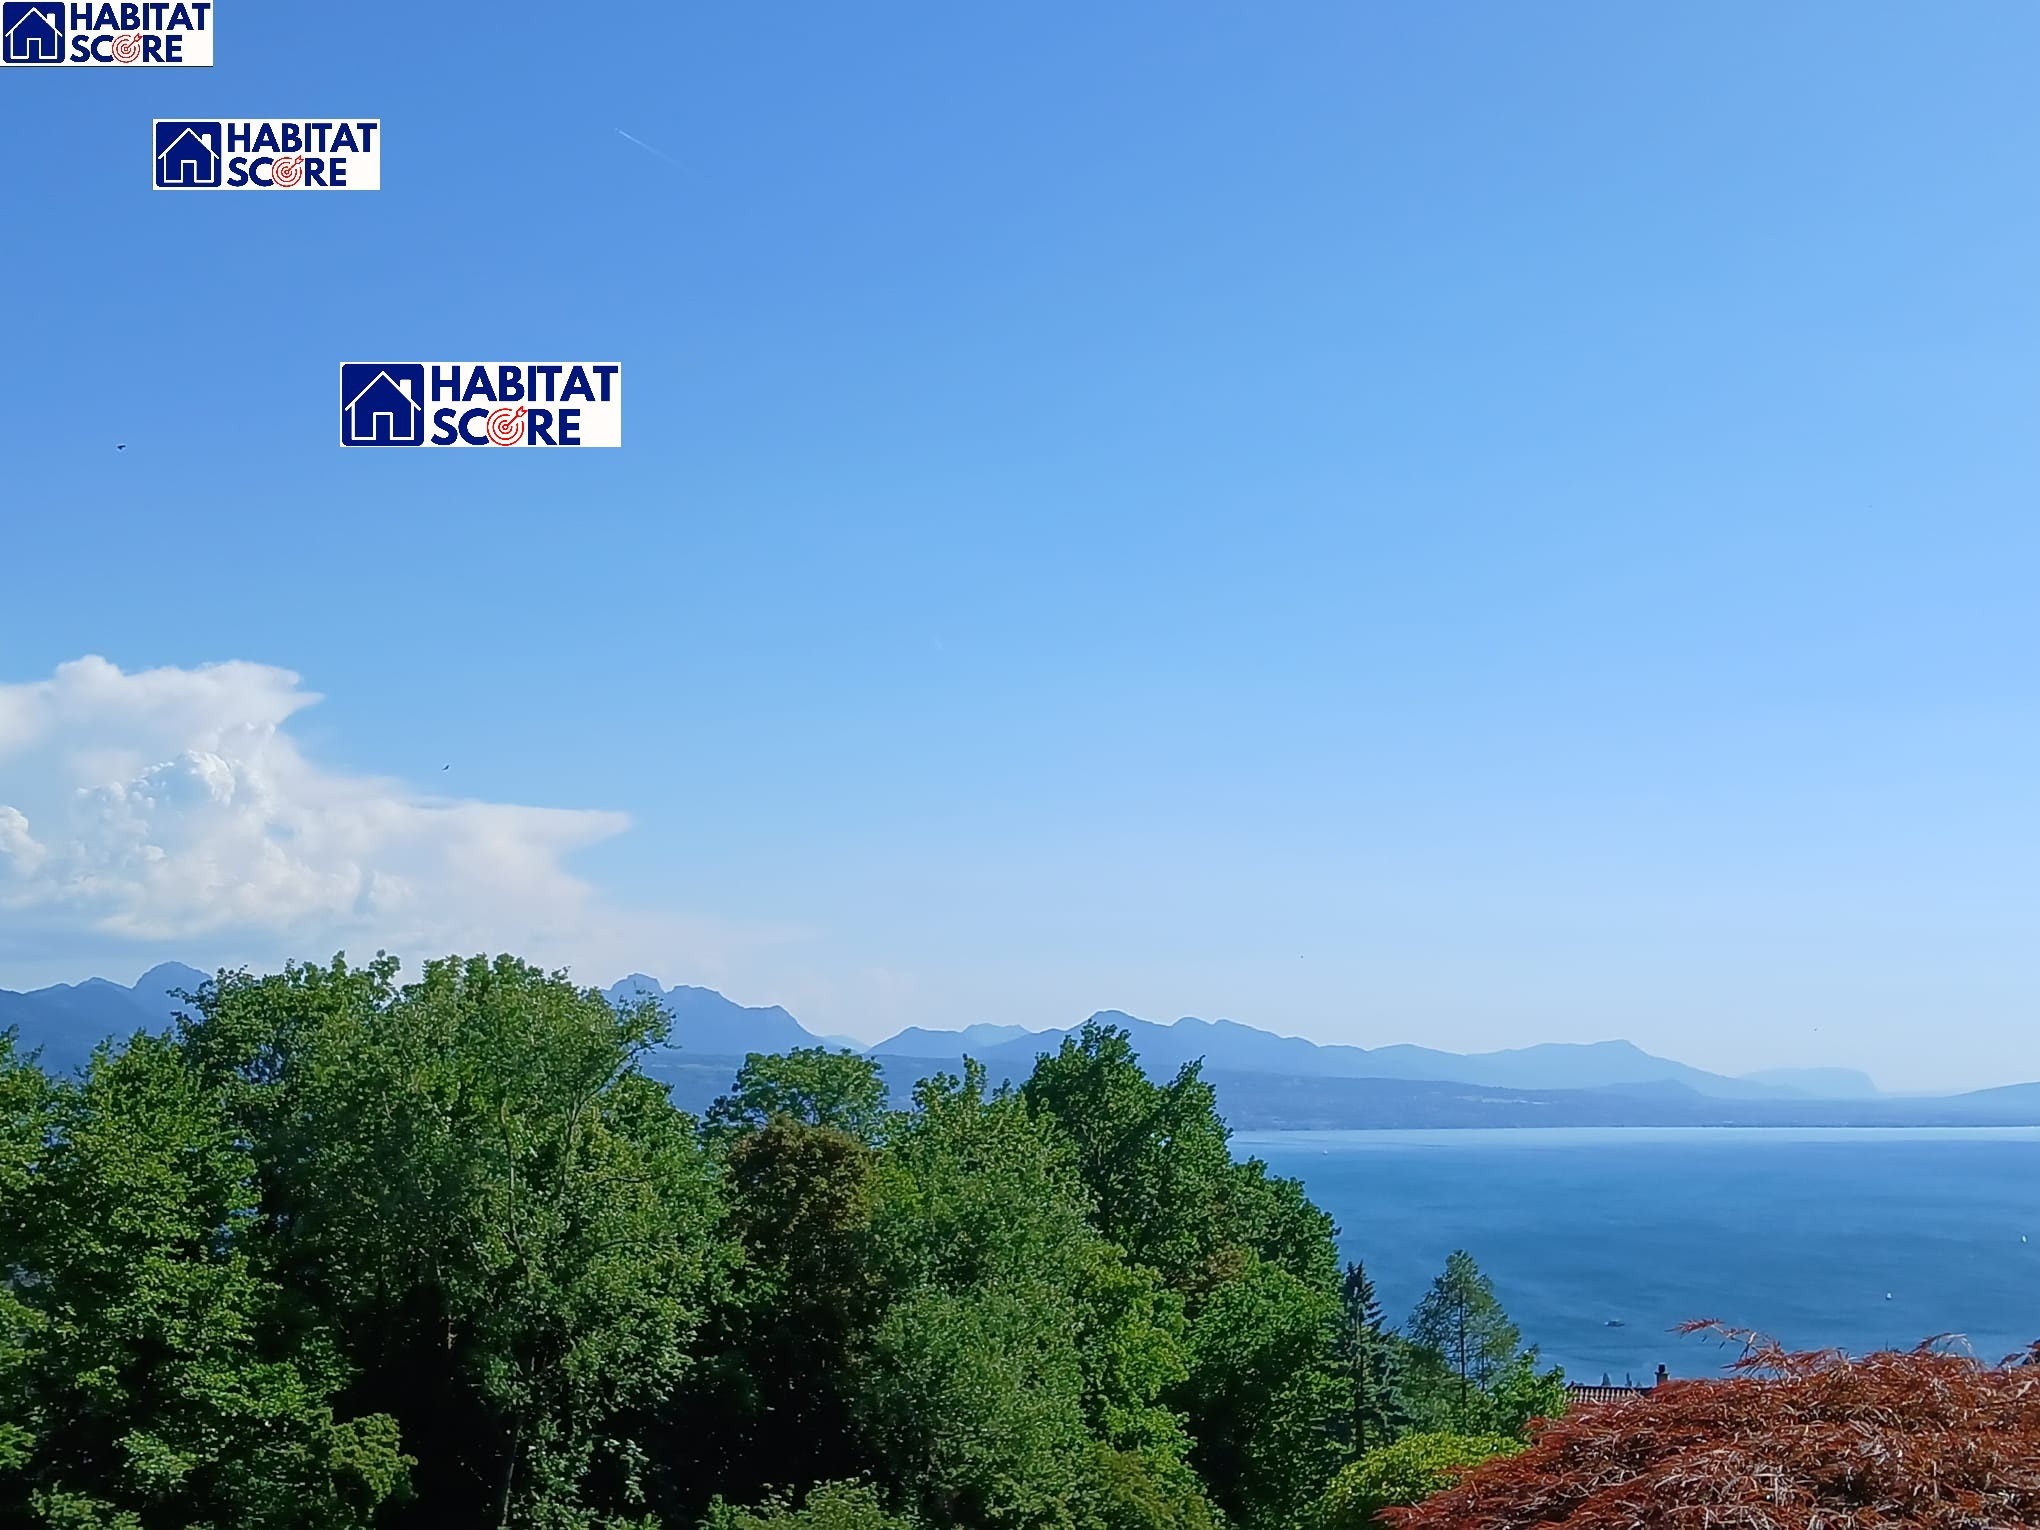
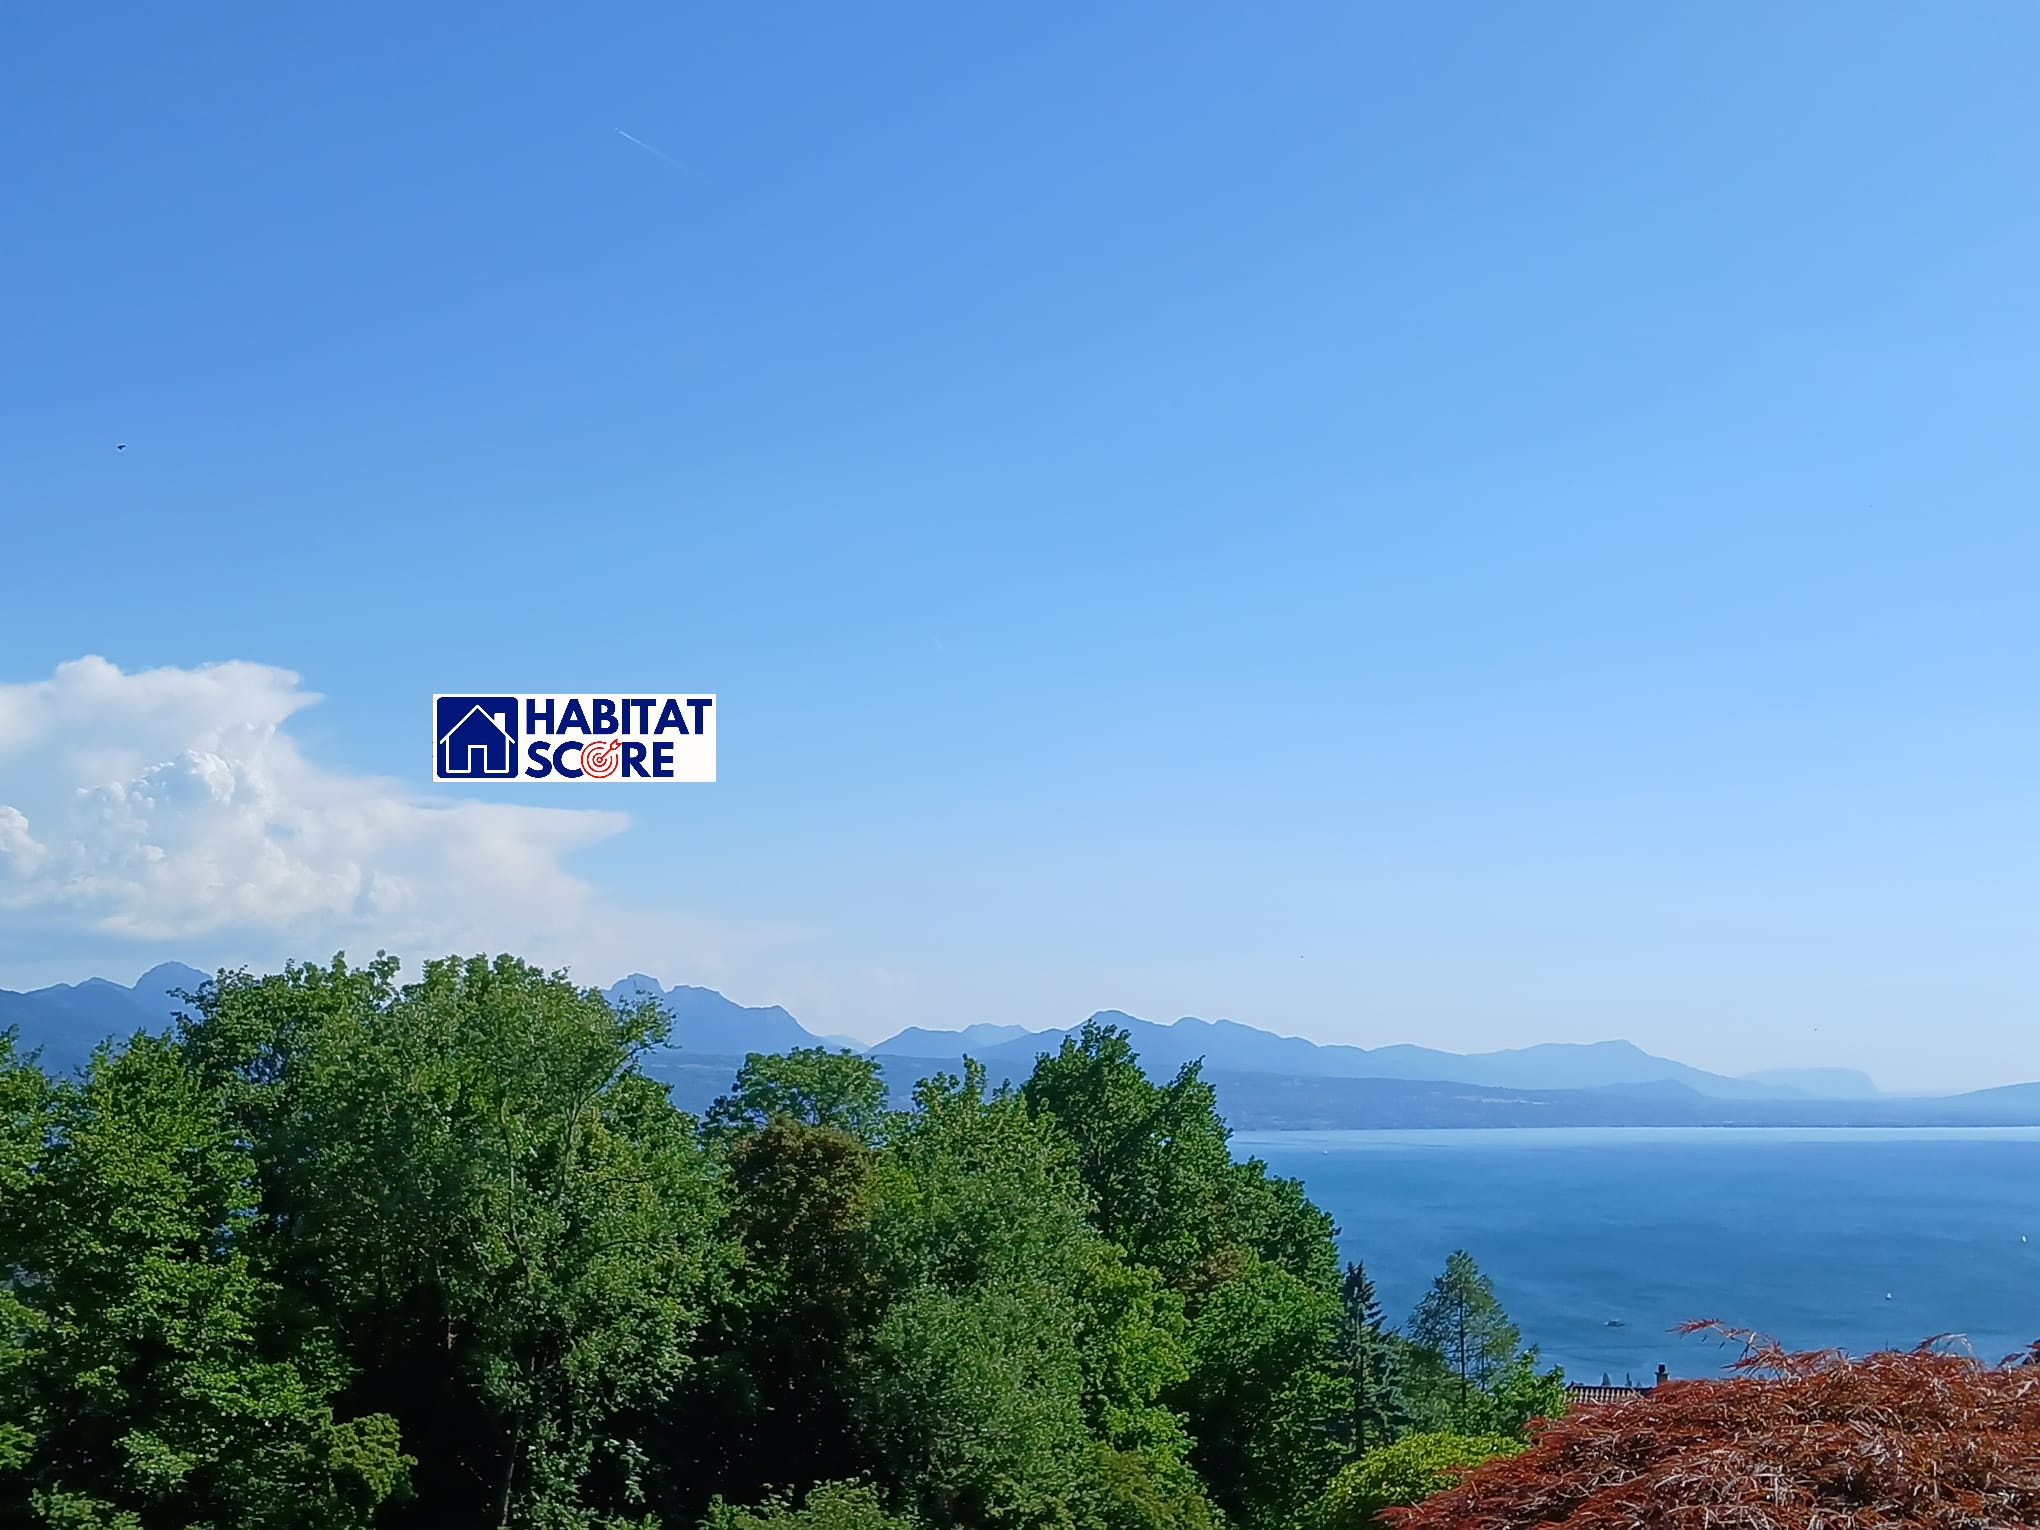
Correction image de fond

Changed region(s): [[0.0, 0.0, 0.1853, 0.1229], [0.1853, 0.4301, 0.3706, 0.5222], [0.1544, 0.215, 0.3088, 0.3072]]

diff --git a/app.py b/app.py
@@ -203,7 +203,7 @@ liste_justification = ["Accessibilité achat appartement",
                            "Qualité de l'air",
                            "Offre place de sports et loisirs",
                            "Charge fiscale modérée",
-                           "Nomre de logements à louer"]
+                           "Nombre de logements à louer"]
 
 dictionnaire_justification = dict(zip(cols_transitoires, liste_justification))
 
